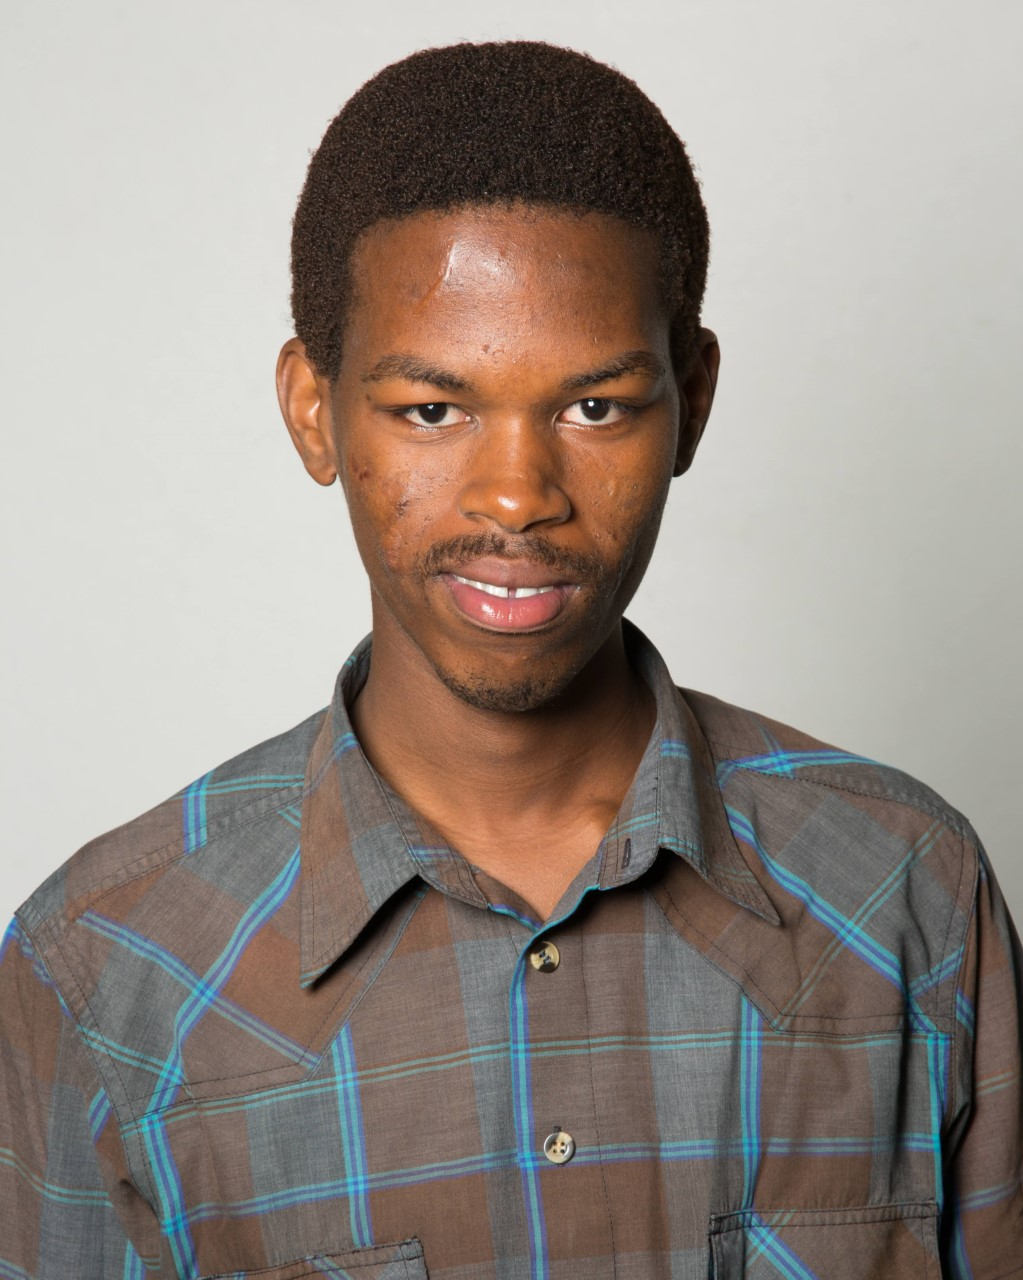
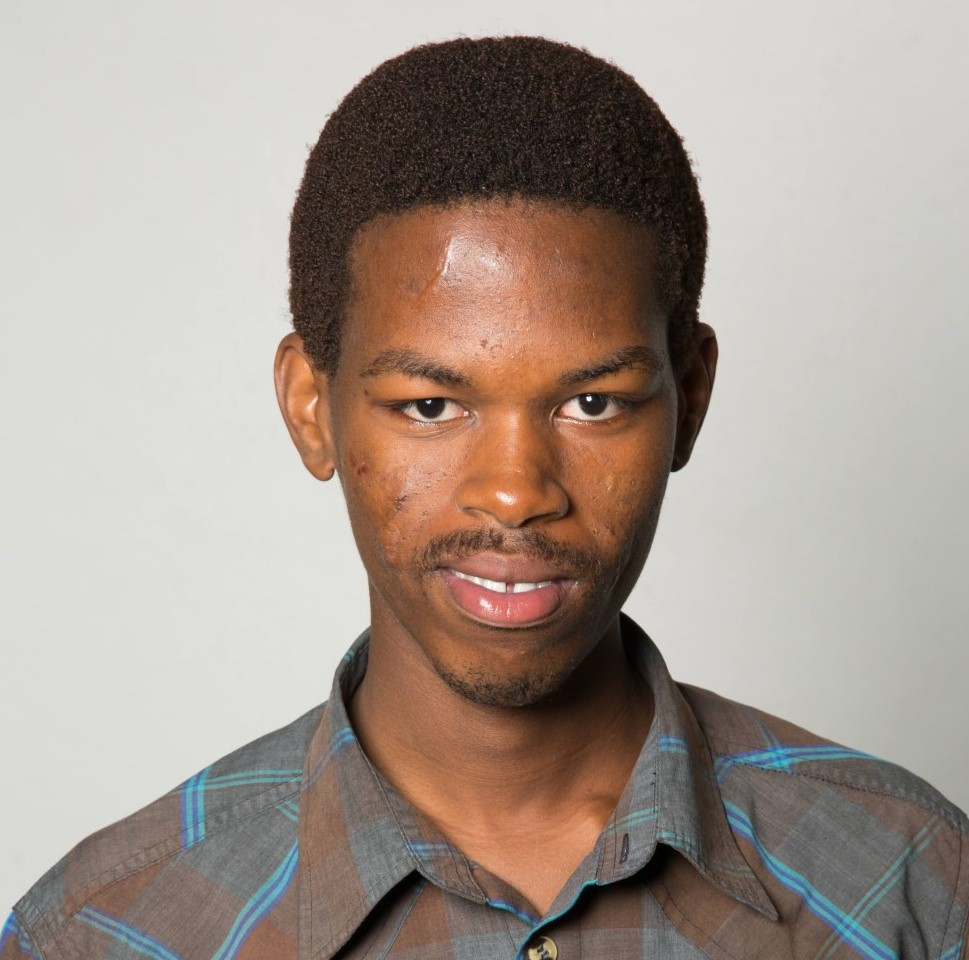
rr23r23

diff --git a/about.html b/about.html
@@ -199,16 +199,16 @@
                   <div class="titlepage text_align_center ">
                      
                      <!--<img src="images/resources.jpg" alt="Description of image" width="600" height="300">-->
-                     <p class="about_new">Prof Regina Maphanga, Research Group Leader:</p>
+                     <p class="about_new">Prof Regina Maphanga, Research Group Leader</p>
                      <br>
-                     <img src="images/Capture.PNG" alt="Description of image" width="600" height="300">
+                     <img class="people_img" src="images/prof_.jpg" alt="Description of image" width="200" height="300">
                      <br>
                      <p class="contact_class">
-                        PHD Student, Working on Modelling and Simulation of all inorganic perovskites for solar cells application.
+                        <!--PHD Student, Working on Modelling and Simulation of all inorganic perovskites for solar cells application.-->
                         <br>
                         <a href="mailto:mkekana@csir.co.za">
 
-                           <i class="fa fa-envelope">&nbsp;&nbsp;PMaleka@csir.co.za</i>
+                           <i class="fa fa-envelope">&nbsp;&nbsp;RMaphanga@csir.co.za</i>
                         </a>
                         <br>
                         <br>

diff --git a/css/style.css b/css/style.css
@@ -43,6 +43,11 @@ img {
     height:50px;
 }
 
+img.people_img {
+    width: 300px;
+    height:300px;
+}
+
 /* more button area*/
 #more {display: none;}
 
